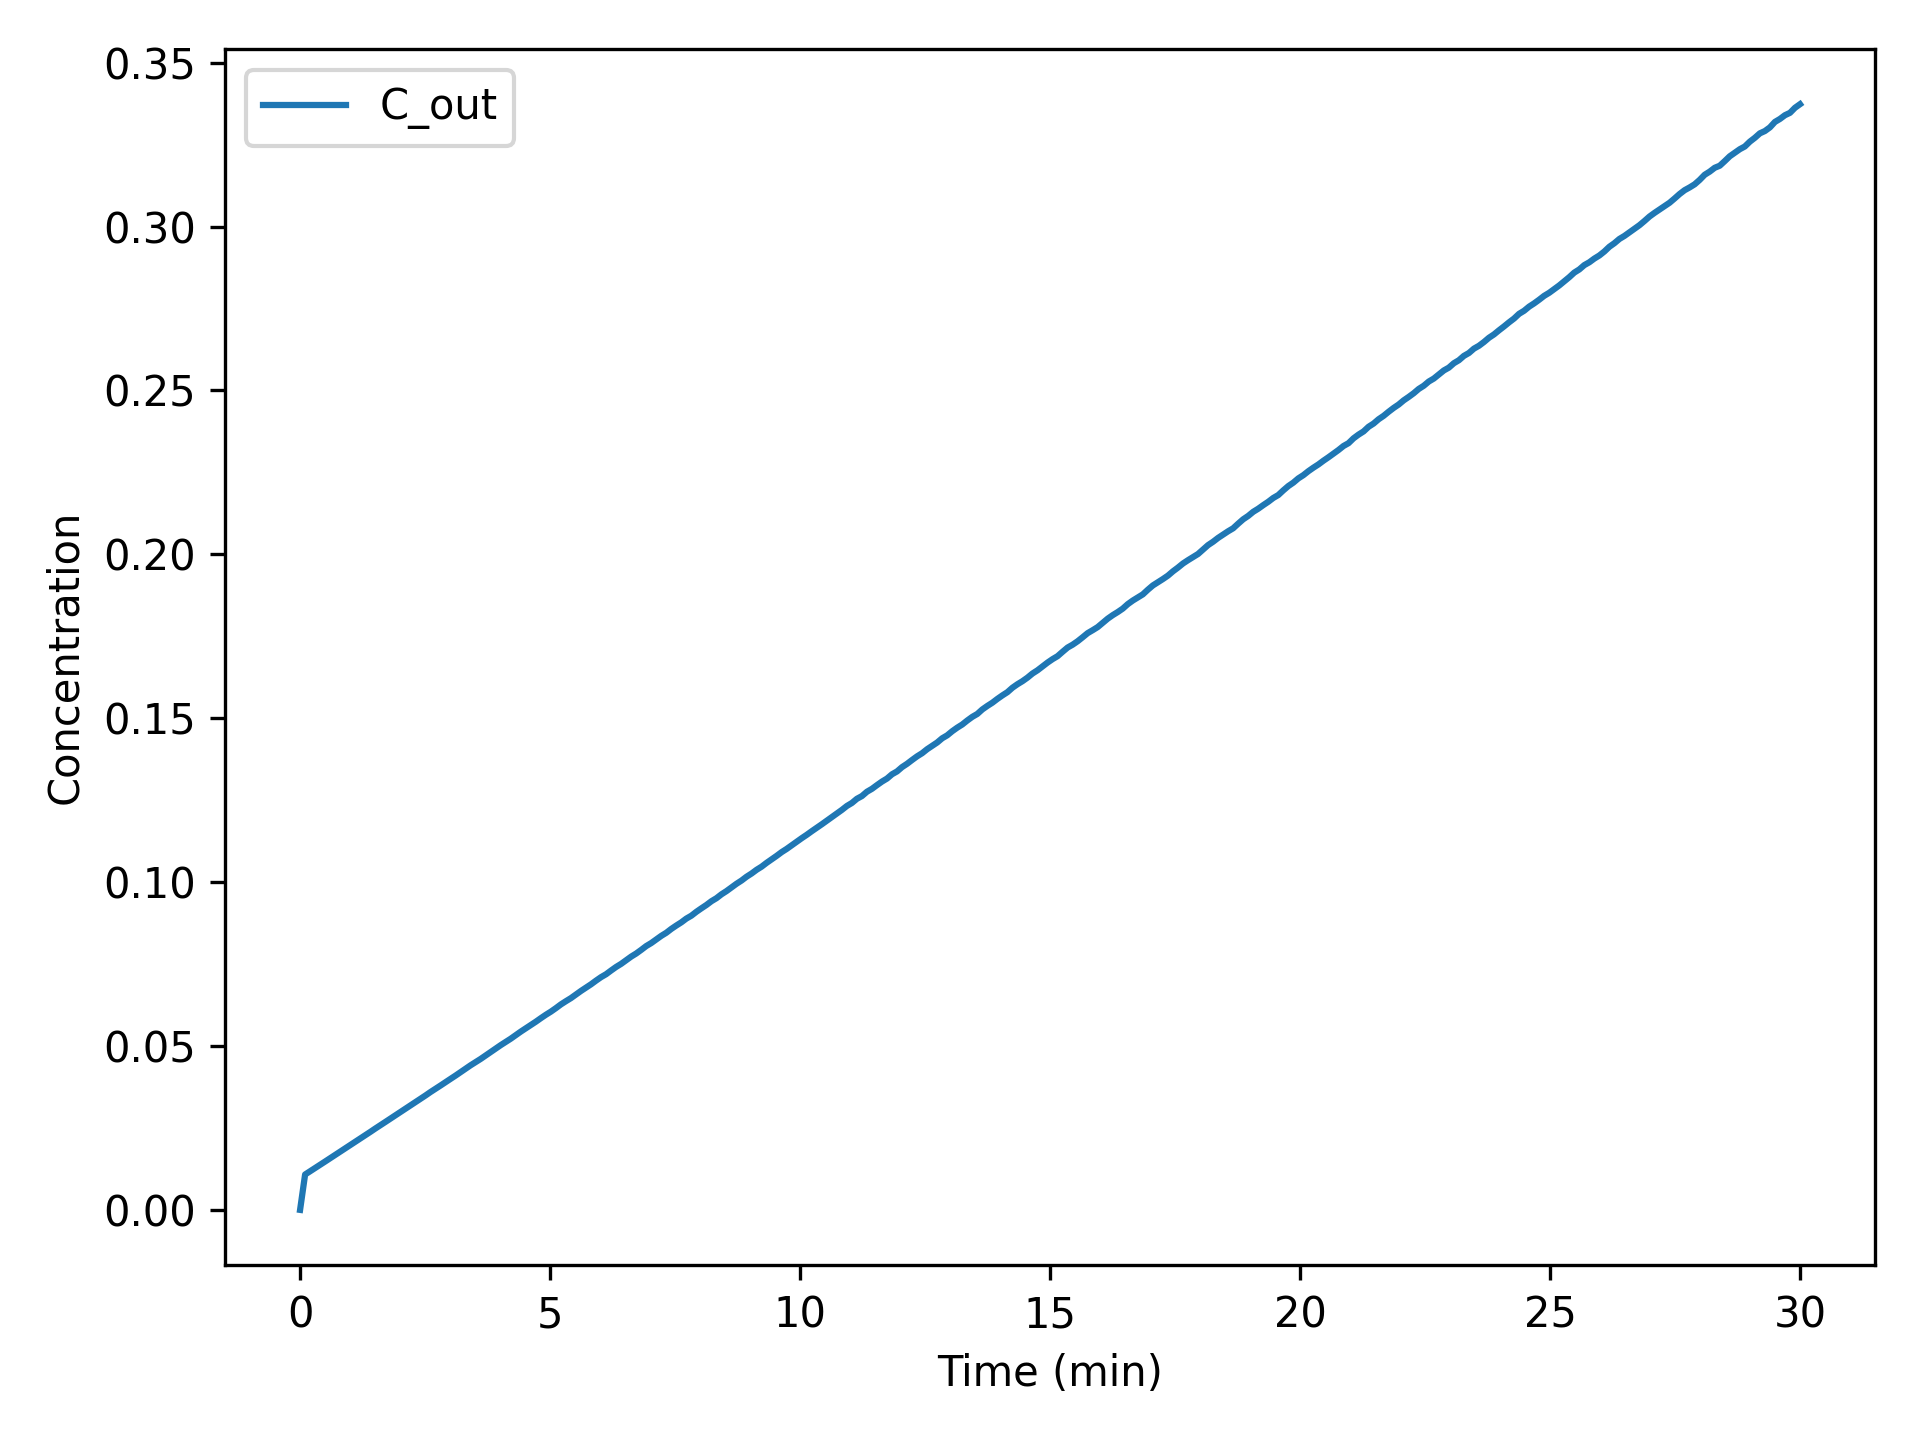
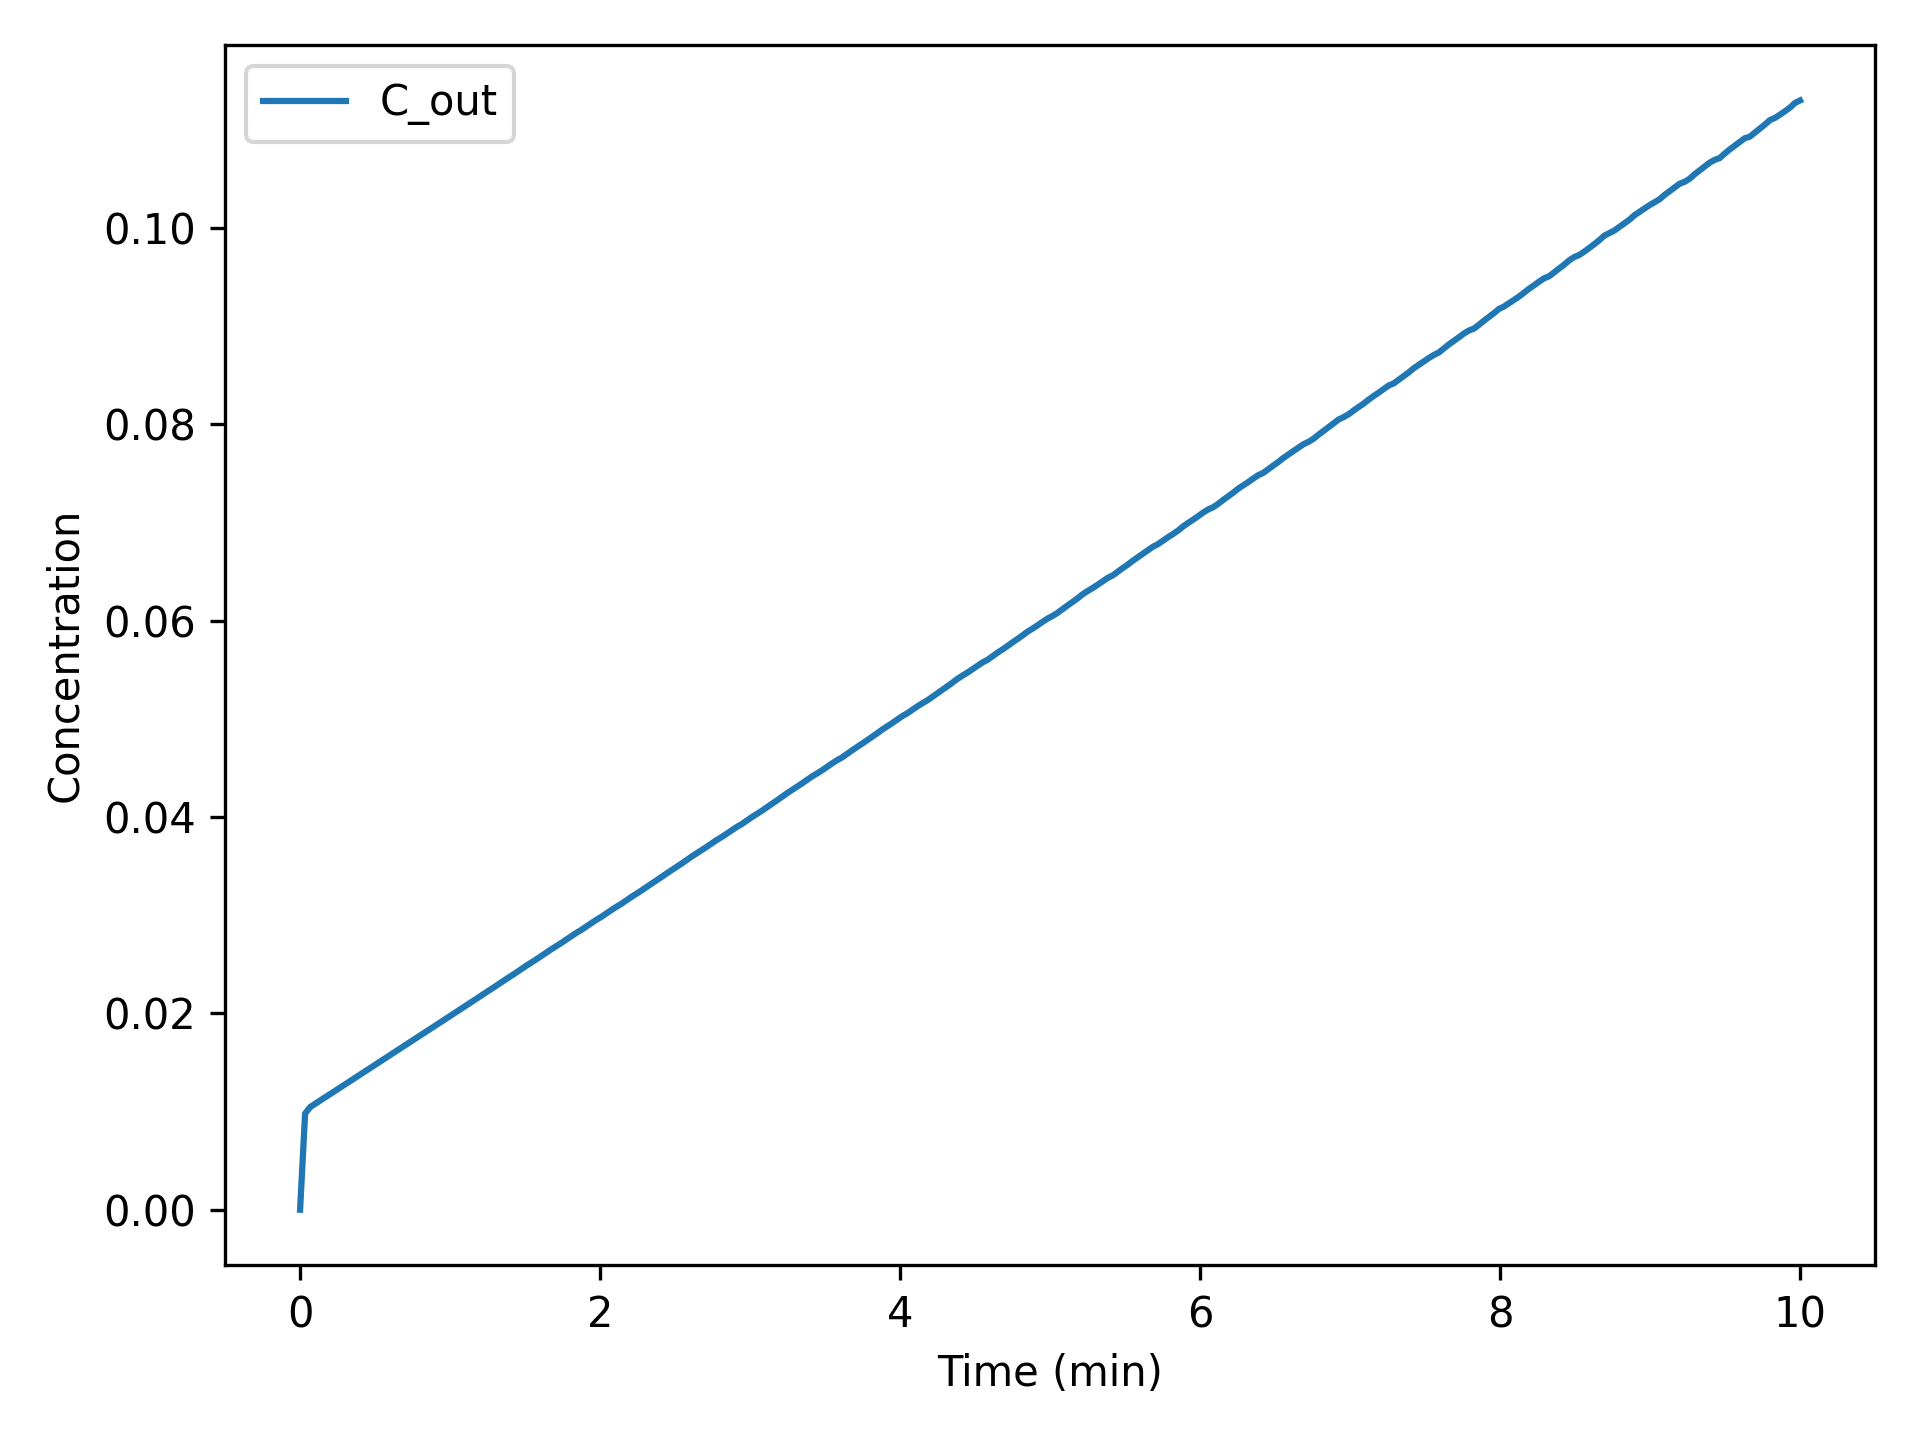
changes

diff --git a/tests/test_parser.py b/tests/test_parser.py
@@ -1,0 +1,12 @@
+import pandas as pd
+import os
+from src.akta_parser import parse_akta_res
+
+def test_parser():
+    df = parse_akta_res("data/sample.res")
+    assert isinstance(df, pd.DataFrame)
+    assert len(df) > 5
+    assert "UV280_mAU" in df.columns
+    assert df["Peak"].sum() >= 1
+    assert os.path.exists("reports/parsed_akta.csv")
+    print("test_parser PASSED")

diff --git a/tests/test_doe.py b/tests/test_doe.py
@@ -1,0 +1,11 @@
+import pandas as pd
+import os
+from src.doe_generator import generate_doe
+
+def test_doe():
+    factors = {'pH': [6.0, 8.0], 'NaCl_mM': [0, 500]}
+    df = generate_doe(factors)
+    assert len(df) == 4  # Full factorial: 2^2 = 4
+    assert "Run" in df.columns
+    assert os.path.exists("reports/doe_plan.csv")
+    print("test_doe PASSED")

diff --git a/tests/test_model.py b/tests/test_model.py
@@ -1,0 +1,8 @@
+import os
+from src.chrom_model import breakthrough_curve
+
+def test_model():
+    sol = breakthrough_curve(t_span=10)
+    assert len(sol.t) > 100
+    assert os.path.exists("reports/breakthrough.png")
+    print("test_model PASSED")
